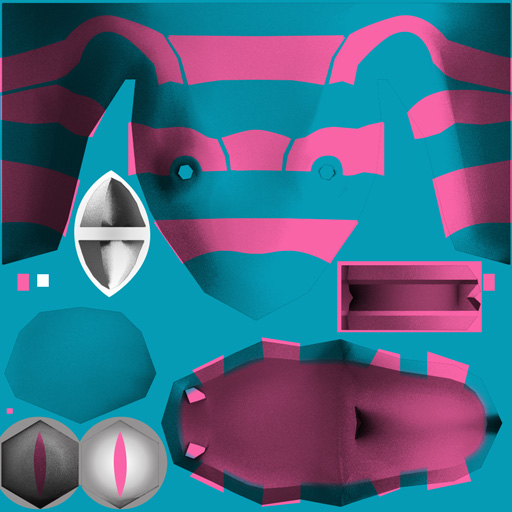
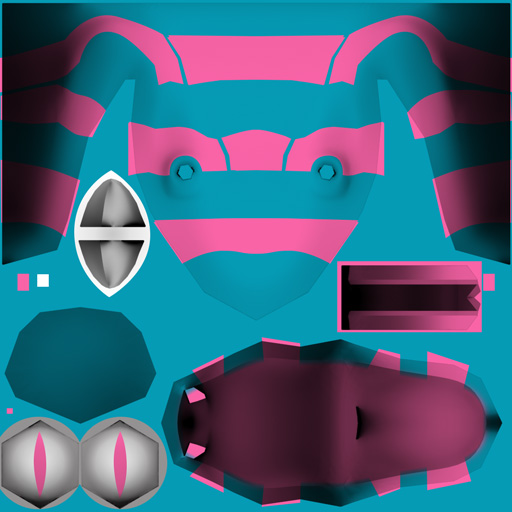
up

diff --git a/js/v3d.js b/js/v3d.js
@@ -34,6 +34,8 @@ V3D.View.prototype = {
     	this.renderer = new THREE.WebGLRenderer({precision: "mediump", antialias:true});
     	this.renderer.setSize( this.w, this.h );
     	this.renderer.setClearColor( 0x1d1f20, 1 );
+    	this.renderer.gammaInput = true;
+		this.renderer.gammaOutput = true;
     	this.camera = new THREE.PerspectiveCamera( 60, this.w/this.h, 0.1, 2000 );
     	this.scene = new THREE.Scene();
     	
@@ -558,6 +560,11 @@ V3D.SphericalShader =  function(o){
         fog: o.fog || false
     });
 
+    if(o.mapLight){
+        material.uniforms.mapLight.value = o.mapLight;
+        material.uniforms.useLightMap.value = 1.0;
+    }
+
     if(o.map){
         material.uniforms.map.value = o.map;
         material.uniforms.useMap.value = 1.0;
@@ -574,8 +581,10 @@ V3D.Spherical = {
     uniforms:{ 
         env: {type: 't', value: null},
         //map: {type: 't', value: null},
+        mapLight: {type: 't', value: null},
         color: {type: 'c', value: null},
         useMap: {type: 'f', value: 0},
+        useLightMap: {type: 'f', value: 0},
         //opacity: {type: 'f', value: 0.3},
         useRim: {type: 'f', value: 0.5},
         rimPower: {type: 'f', value: 2},
@@ -585,6 +594,8 @@ V3D.Spherical = {
         'uniform vec3 diffuse;',
         'uniform float opacity;',
         'uniform float useMap;',
+        'uniform sampler2D mapLight;',
+        'uniform float useLightMap;',
         'uniform float useRim;',
         'uniform float rimPower;',
         'uniform float useExtraRim;',
@@ -593,6 +604,7 @@ V3D.Spherical = {
         //'uniform vec3 color;',
         'varying vec2 vN;',
         'varying vec2 vU;',
+        //'varying vec2 vUv2;',
         //'varying vec3 vEye;',
         'varying vec3 vNormal;',
         'varying vec3 vPos;',
@@ -633,8 +645,18 @@ V3D.Spherical = {
             // environment
             'vec3 ev = texture2D( env, vN ).rgb;',
             'base *= ev;',
+
+            //'if(useLightMap == 1.){',
+	        //    'base *= texture2D( mapLight, vU ).rgb;',
+            //'}',
             
             'gl_FragColor = vec4( base, alpha );',
+
+            'if(useLightMap == 1.){',
+	            'gl_FragColor = gl_FragColor * texture2D( mapLight, vU );',
+            '}',
+
+
 
             THREE.ShaderChunk[ "logdepthbuf_fragment" ],
             //THREE.ShaderChunk[ "map_fragment" ],
@@ -663,13 +685,14 @@ V3D.Spherical = {
 
         'varying vec2 vN;',
         'varying vec2 vU;',
+        //'varying vec2 vUv2;',
         //'varying vec3 vEye;',
         'varying vec3 vNormal;',
         'varying vec3 vPos;',
 
         'void main() {',
             //THREE.ShaderChunk[ "map_vertex" ],
-           // THREE.ShaderChunk[ "lightmap_vertex" ],
+            //THREE.ShaderChunk[ "lightmap_vertex" ],
             //THREE.ShaderChunk[ "color_vertex" ],
             THREE.ShaderChunk[ "skinbase_vertex" ],
 
@@ -697,6 +720,7 @@ V3D.Spherical = {
             'float m = 2. * sqrt( pow( r.x, 2. ) + pow( r.y, 2. ) + pow( r.z + 1., 2. ) );',
             'vN = r.xy / m + .5;',
             'vU = uv;',
+            //'vUv2 = uv2;',
             //'vEye = ( modelViewMatrix * vec4( position, 1.0 ) ).xyz;',
             //'gl_Position = projectionMatrix * modelViewMatrix * vec4( position, 1. );',
             'gl_Position = projectionMatrix * mvPosition;',

diff --git a/demos/demo_2.js b/demos/demo_2.js
@@ -25,15 +25,16 @@ function renderLoop(){
 // import image
 
 var objName = "basic_op"; // version optimiser
-var headShader;
+var headShader, centerShader;
 var pool = new SEA3D.Pool();
-pool.loadImages(['../images/serpent.jpg'], initImages);
+pool.loadImages(['../images/serpent.jpg','../images/center.jpg'], initImages);
 
 function initImages(){
-    headShader = new V3D.SphericalShader({ env:v.img, map:pool.getTexture('serpent', true) });
+    headShader = new V3D.SphericalShader({ env:v.img, mapLight:pool.getTexture('serpent', true) });
+    centerShader = new V3D.SphericalShader({ env:v.img, mapLight:pool.getTexture('center', true) });
     pool.load( ['../models/'+objName+'.sea', '../models/serpent.sea'], initObject, 'buffer' );
 }
-
+//
 // import sea3D object pack
 function initObject(){
 
@@ -259,19 +260,19 @@ formula.prototype = {
     	var m1, m2, m3, m4;
         if(type=='high_rat'){
             t = 1;
-            m1 = new THREE.Mesh(geos['c1'], v.mats.c4);
+            m1 = new THREE.Mesh(geos['c1'], centerShader);
             m2 = new THREE.Mesh(geos['s1'], v.mats.c4);
         } else if(type=='low_rat'){
             t = 2;
-            m1 = new THREE.Mesh(geos['c2'], v.mats.c1);
+            m1 = new THREE.Mesh(geos['c2'], centerShader);
             m2 = new THREE.Mesh(geos['s2'], v.mats.c1);
         } else if(type=='high_norm'){
             t = 1;
-            m1 = new THREE.Mesh(geos['c1'], v.mats.c4);
+            m1 = new THREE.Mesh(geos['c1'], centerShader);
             m2 = new THREE.Mesh(geos['h1'], v.mats.c4);
         } else if(type=='low_norm'){
             t = 2;
-            m1 = new THREE.Mesh(geos['c2'], v.mats.c1);
+            m1 = new THREE.Mesh(geos['c2'], centerShader);
             m2 = new THREE.Mesh(geos['h2'], v.mats.c1);
         }
         n = n || 0;
